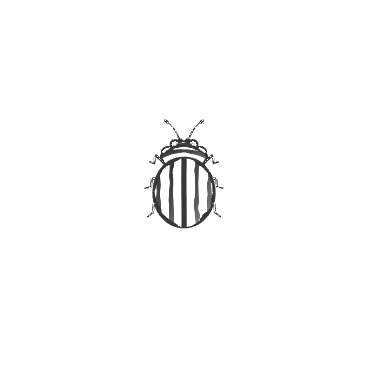
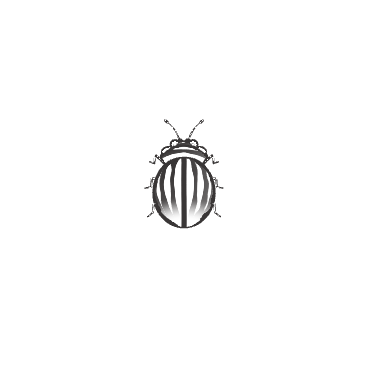
The beetle's body is drawn in every pose: grooved wing cases, a banded belly
- the wing cases' grooves run round the curve of the shell, so they show from above and from the side (sitting on the
  input box or a wall), and stop short of the tail as a real wing case's do
- open, the cases are drawn on both sides again, but grooved only outside (no dark crossed patch); their grooves fade
  only once they are well up, over a banded belly, so the body is never an empty outline
- the icons re-drawn to match

Changed region(s): [[0.4185, 0.4185, 0.5978, 0.5978]]

diff --git a/components/home/HeroFilm.tsx b/components/home/HeroFilm.tsx
@@ -250,7 +250,7 @@ const SKETCH_FS = `
 varying vec3 vN; varying vec3 vV; varying vec3 vObj; varying float vDepth;
 uniform vec3 ink;
 uniform float fogNear; uniform float fogFar; uniform float time; uniform float px;
-uniform float merid; uniform float rings; uniform float hatchAmt; uniform float weight; uniform float even; uniform float stripes; uniform float objPress;
+uniform float merid; uniform float rings; uniform float hatchAmt; uniform float weight; uniform float even; uniform float stripes; uniform float objPress; uniform float meridAng; uniform float backLines;
 float hash(vec2 p){ p = fract(p * vec2(123.34, 456.21)); p += dot(p, p + 45.32); return fract(p.x * p.y); }
 float noise(vec2 p){
   vec2 i = floor(p); vec2 f = fract(p); vec2 u = f * f * (3.0 - 2.0 * f);
@@ -282,11 +282,18 @@ void main(){
   float n = dot(N, L) * 0.5 + 0.5;
   float jit = (noise(vObj.xz * 7.0 + boil) - 0.5) * 0.1 * (1.0 - even);
   // lines drawn across the form, so it reads round: along the wing cases (and the seam), around the body
+  // backLines: how much of the stripes the inside of a shell shows (an open shell's inside, striped too, reads as a dark patch)
+  float face = gl_FrontFacing ? 1.0 : backLines;
   if (merid > 0.0) {
-    a = max(a, lineAt(abs(vObj.x) * merid + jit, 1.2 * pressure * px) * smoothstep(0.03, 0.07, abs(vObj.x)) * (0.5 + 0.5 * n) * stripes);
-    a = max(a, lineAt(vObj.x + jit * 0.02, 1.6 * px) * stripes);
+    // meridAng: the stripes run round the curve of the shell (as a real wing case's grooves), so they show from above and
+    // from the side alike; otherwise they are straight lines along it, as seen from above
+    float m = mix(abs(vObj.x) * merid, atan(vObj.y + 0.09, abs(vObj.x)) * merid * 0.42, meridAng);
+    // round the curve, the grooves run together at the tail: they stop short of it, as a wing case's grooves do
+    float tail = mix(1.0, smoothstep(-0.88, -0.62, vObj.z), meridAng);
+    a = max(a, lineAt(m + jit, 1.2 * pressure * px) * smoothstep(0.03, 0.07, abs(vObj.x)) * (0.5 + 0.5 * n) * stripes * face * tail);
+    a = max(a, lineAt(vObj.x + jit * 0.02, 1.6 * px) * stripes * face);
   }
-  if (rings > 0.0) a = max(a, lineAt(vObj.z * rings + jit, 1.1 * pressure * px) * (0.45 + 0.55 * n) * stripes);
+  if (rings > 0.0) a = max(a, lineAt(vObj.z * rings + jit, 1.1 * pressure * px) * (0.45 + 0.55 * n) * stripes * face);
   // stippled light: fine dots of ink where the light falls, thicker where it is brightest, as in a stipple drawing
   if (hatchAmt > 0.0) {
     vec2 q = fc / 3.2;
@@ -304,7 +311,7 @@ void main(){
   gl_FragColor = vec4(ink * a, a);
 }`;
 
-export type SketchU = { time: { value: number }; fogNear: { value: number }; fogFar: { value: number }; px: { value: number }; ink?: { value: THREE.Vector3 }; even?: { value: number }; objPress?: { value: number }; edge?: { value: THREE.Vector2 } };
+export type SketchU = { time: { value: number }; fogNear: { value: number }; fogFar: { value: number }; px: { value: number }; ink?: { value: THREE.Vector3 }; even?: { value: number }; objPress?: { value: number }; edge?: { value: THREE.Vector2 }; meridAng?: { value: number }; backLines?: { value: number } };
 type Lines = { merid?: number; rings?: number; hatch?: number; weight?: number };
 const INK = new THREE.Vector3(0.96, 0.96, 0.96); // pure white ink, no warmth: white and grey only
 function sketchMaterial(shared: SketchU, lines: Lines = {}) {
@@ -321,6 +328,8 @@ function sketchMaterial(shared: SketchU, lines: Lines = {}) {
       even: shared.even ?? { value: 0 },
       stripes: { value: 1 }, // how much of its drawn stripes or rings show (1: all)
       objPress: shared.objPress ?? { value: 0 },
+      meridAng: shared.meridAng ?? { value: 0 },
+      backLines: shared.backLines ?? { value: 1 },
       merid: { value: lines.merid ?? 0 },
       rings: { value: lines.rings ?? 0 },
       hatchAmt: { value: lines.hatch ?? 0 },

diff --git a/components/copilot/beetle3d.ts b/components/copilot/beetle3d.ts
@@ -143,7 +143,7 @@ export async function mountBeetle3D(box: HTMLElement, opts: { size: number; ink:
 
   // drawn with the film's pen: each line swells and tapers, as a sketch; the swell belongs to the beetle (objPress), so
   // as it flies its lines hold their shape instead of shimmering, and the wings stay drawn as they turn (edge)
-  const sk = { time: { value: 0 }, fogNear: { value: 60 }, fogFar: { value: 90 }, px: { value: pr * penFor(opts.size) }, ink: { value: new THREE.Vector3(...ink) }, even: { value: 0 }, objPress: { value: 1 }, edge: { value: new THREE.Vector2(0.0, 0.06) } };
+  const sk = { time: { value: 0 }, fogNear: { value: 60 }, fogFar: { value: 90 }, px: { value: pr * penFor(opts.size) }, ink: { value: new THREE.Vector3(...ink) }, even: { value: 0 }, objPress: { value: 1 }, edge: { value: new THREE.Vector2(0.0, 0.06) }, meridAng: { value: 1 }, backLines: { value: 0 } };
   // the film's dust is sized for a beetle five times this one (its model drawn at scale 5): scaled to match, so each mote is
   // as fine against its body as in the film
   const proj = (C * pr) / (2 * Math.tan(((FOV / 2) * Math.PI) / 180)) / 5;
@@ -156,12 +156,12 @@ export async function mountBeetle3D(box: HTMLElement, opts: { size: number; ink:
     1,
     { ink, dust: ink, dots: 0, wingK: 0.24 },
   );
-  // no dust and no bubbles: only the drawing. And each shell is drawn from outside only: open, its inside would add a
-  // second set of crossing stripes, which reads as a dark patch
+  // no dust and no bubbles: only the drawing. The belly gets a few more bands, so with its cases lifted its body still
+  // reads as a body, not an empty outline
   b.root.traverse((o) => {
     if ((o as THREE_NS.Points).isPoints) o.visible = false;
     const m = (o as THREE_NS.Mesh).material as THREE_NS.ShaderMaterial | undefined;
-    if (m && (m as THREE_NS.ShaderMaterial).isShaderMaterial && m.uniforms?.merid) m.side = THREE.FrontSide;
+    if (m && m.isShaderMaterial && m.uniforms?.rings && m.uniforms.rings.value === 3) m.uniforms.rings.value = 5;
   });
   const shellMat = ((b.cases[0].children[0] as THREE_NS.Mesh).material as THREE_NS.ShaderMaterial);
   const shellWeight = shellMat.uniforms.weight.value as number;
@@ -194,9 +194,9 @@ export async function mountBeetle3D(box: HTMLElement, opts: { size: number; ink:
       const s = i === 0 ? 1 : -1;
       c.rotation.set(0.4 * open, s * 0.22 * open, -s * 0.85 * open);
     });
-    // lifted, the cases are seen edge-on and their stripes would bunch into a dark patch: as they open, only their outline stays
-    shellMat.uniforms.stripes.value = 1 - ease(open / 0.6);
-    shellMat.uniforms.weight.value = shellWeight * (1 - 0.5 * ease(open / 0.6)); // and seen edge-on, a lighter outline
+    // lifted, the cases are seen more edge-on: a slightly lighter outline, the stripes kept (on their outer face only)
+    shellMat.uniforms.weight.value = shellWeight * (1 - 0.25 * ease(open / 0.6));
+    shellMat.uniforms.stripes.value = 1 - ease((open - 0.35) / 0.45); // a lifted case is seen edge-on: its outline only, over the banded belly
     wingPhase += dt * Math.PI * 2 * 3.2 * unfold; // a small beetle beats its wings quicker than the film's slow, close one
     const beat = Math.sin(wingPhase) * unfold;
     b.dustMat.uniforms.open.value = unfold;
